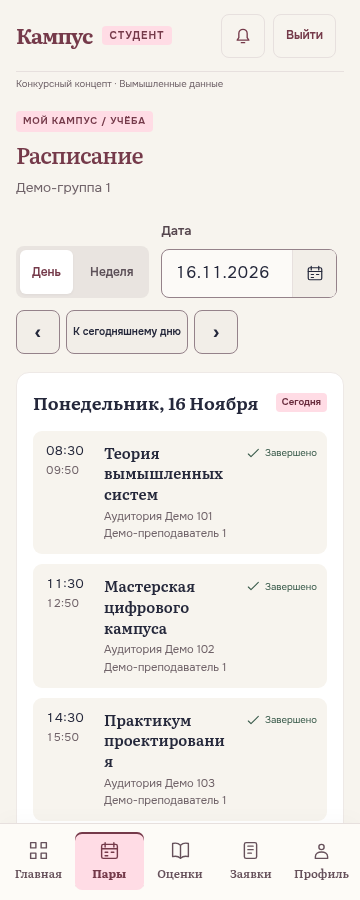
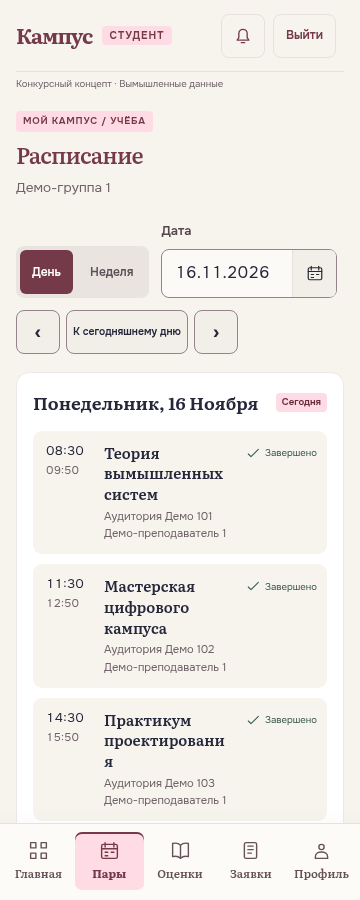
fix(ui): усилить контраст выбранного режима расписания

Changed region(s): [[0.0306, 0.28, 0.2139, 0.3422]]

diff --git a/docs/screenshots/issue-59/index.html b/docs/screenshots/issue-59/index.html
@@ -1,1 +1,1 @@
[2 lines of base64/hex data omitted]

diff --git a/src/app/student-polish.css b/src/app/student-polish.css
@@ -611,3 +611,10 @@
   background: #f1e6e8;
   color: var(--brand);
 }
+/* The selected mode is explicit in the owner reference, including on hover. */
+.student-schedule .segmented button[aria-pressed="true"],
+.student-schedule .segmented button[aria-pressed="true"]:hover {
+  background: var(--brand);
+  color: #fff;
+  box-shadow: none;
+}

diff --git a/docs/design/STUDENT_POLISH_59.md b/docs/design/STUDENT_POLISH_59.md
@@ -30,7 +30,7 @@
 
 Камера ждёт SSR/workspace/реальных lesson rows, шрифты и видимые изображения. Скрытые lazy images не блокируют съёмку. Кадры «Загрузка…» пересняты и не выдаются за готовый экран. Кадр после прокрутки создаётся только когда есть действительная прокрутка; дубликаты не размножаются. Матрица/PNG hashes фиксируют фактическое покрытие. Desktop empty/grades используют реальные пустые данные; статусы заявок могут отличаться от нарисованного референса.
 
-Выполнены последовательные визуальные итерации по настоящим кадрам: устранены excess whitespace mobile landing, слишком высокий date toolbar/обрезанная дата, скрытый текст completed, двойные отступы шапки, статусная окраска доступа и лишнее повторение даты/предупреждений. На реальных кадрах также выявлен старый low-contrast hover невыбранного segmented button: исправлен scoped hover, E2E измеряет его contrast≥4.5 и высоту≥44px после завершения CSS transition. Контрольные ширины360/390/768/1280, клавиатурная активация CTA/focus, min44px для основных кнопок. Отдельная QA-метрика проверяет пересечение masthead-actions с greeting/heading и горизонтальное переполнение.
+Выполнены последовательные визуальные итерации по настоящим кадрам: устранены excess whitespace mobile landing, слишком высокий date toolbar/обрезанная дата, скрытый текст completed, двойные отступы шапки, статусная окраска доступа и лишнее повторение даты/предупреждений. На реальных кадрах также выявлен старый low-contrast hover невыбранного segmented button: исправлен scoped hover, E2E измеряет его contrast≥4.5 и высоту≥44px после завершения CSS transition. Активный режим выделен бордовым/белым как в DOCX, включая hover, вместо слабой светлой тени. Контрольные ширины360/390/768/1280, клавиатурная активация CTA/focus, min44px для основных кнопок. Отдельная QA-метрика проверяет пересечение masthead-actions с greeting/heading и горизонтальное переполнение.
 
 Локально20unit/79PostgreSQL integration/18E2E и дополнительный focused schedule-states PASS, lint/typecheck/build/runtime gate. Первый E2E17PASS/1FAIL был старым селектором текста группы: заменён на точное значение/видимость семантического поля. Ошибочный повтор всей suite вместо focused упёрся в штатный registration quota; лимиты/RateBucket не менялись. Корректная focused команда — `npx --no-install playwright test tests/e2e/schedule-states.spec.ts`, без npm-аргументов после составного `&&` script. Следующие CI выполняют весь набор на чистой БД.
 

diff --git a/docs/AI_LOG.md b/docs/AI_LOG.md
@@ -477,3 +477,5 @@
 - Production NO-GO сохраняется; без merge/auto-merge/deploy, прямой записи main или изменений работающего VPS. Owner manual review и будущий логотип отдельно.
 
 - На финальном browser review найден low-contrast hover у невыбранного режима расписания; исправлен только в student scope. Проверка вычисленного hover contrast≥4.5 и target≥44px добавлена к существующему state E2E, без отключения historical suite. Камера убирает указатель из UI для стандартных кадров; hover проверяется отдельно.
+
+- В финальном сопоставлении с image7 активный Day/Week усилен бордовой заливкой и белым текстом, включая hover; contrast-индикация не зависит от слабой тени. Пересняты после-кадры этой CSS-ревизии, новый exact HEAD проверяется всеми тремя CI.
